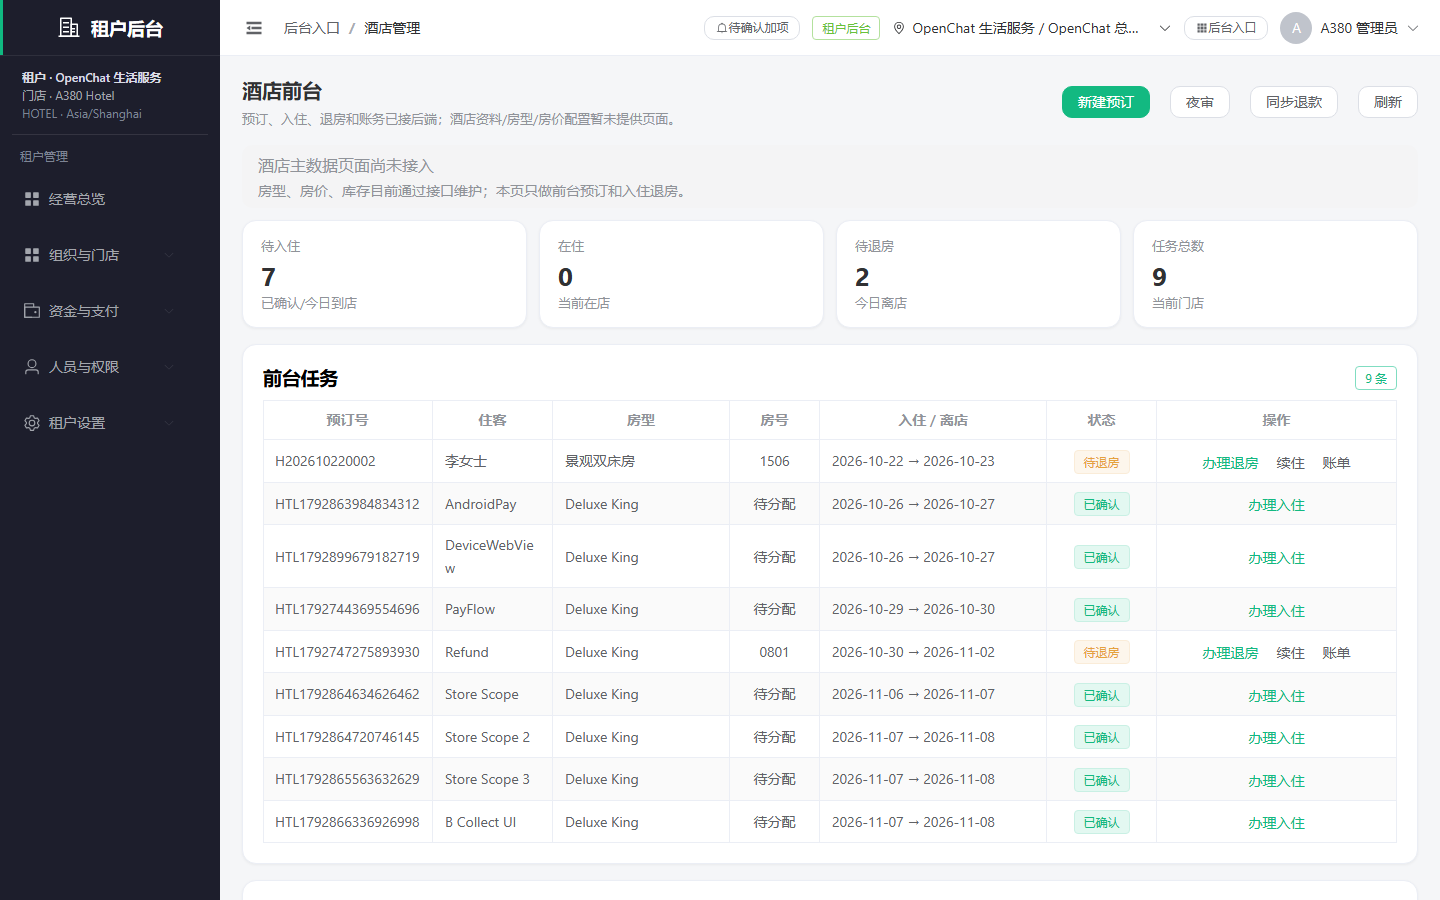
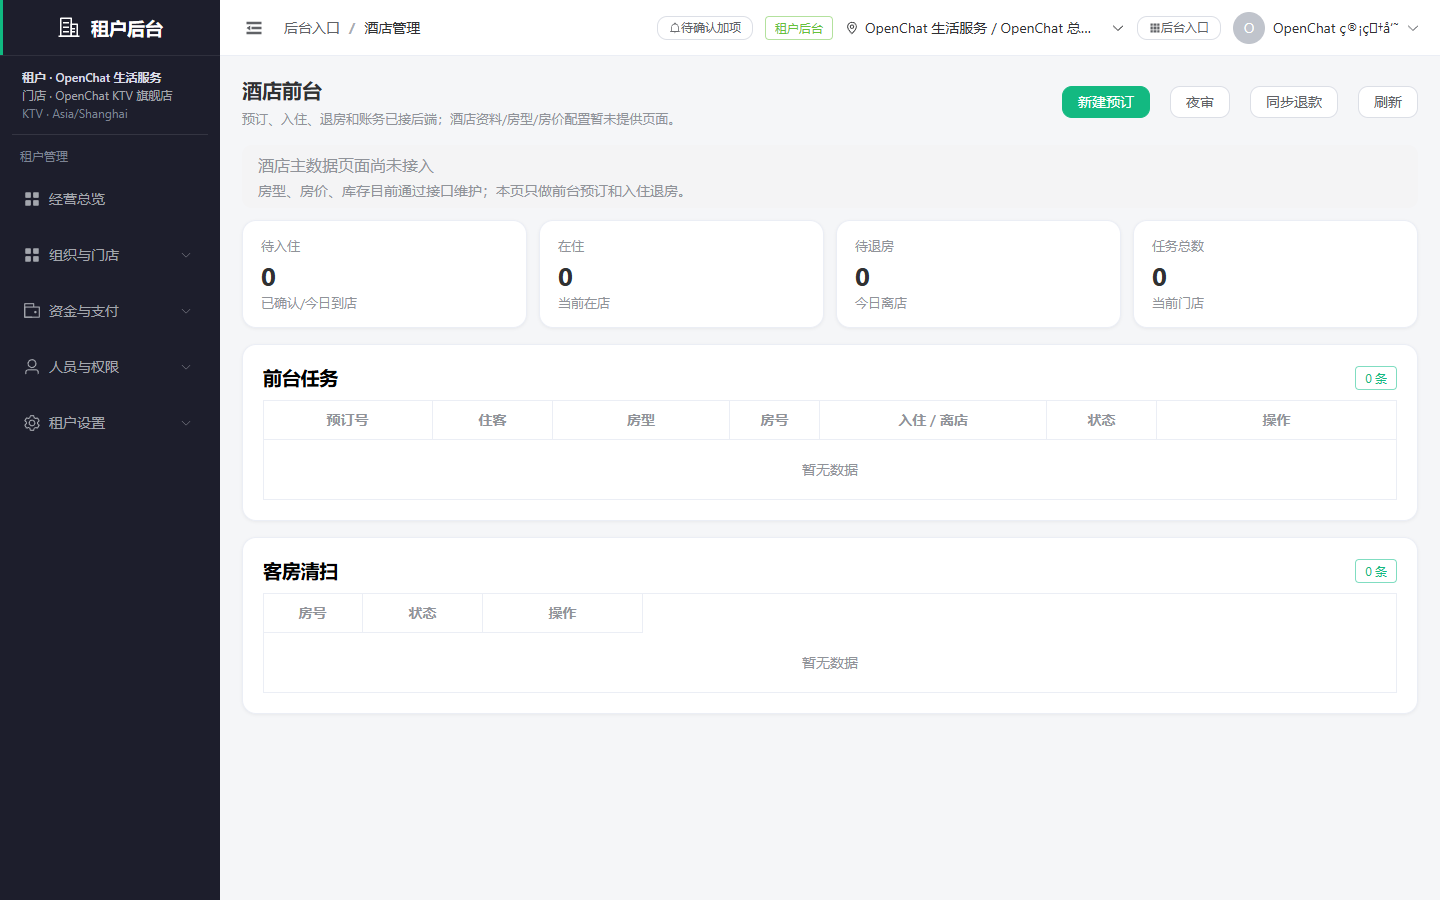
refactor: remove a380 branding from tenant data and docs

diff --git a/platform-services/tenant/platform-tenant-service/src/test/java/io/openware/platform/tenant/api/controller/TenantConfigControllerTest.java b/platform-services/tenant/platform-tenant-service/src/test/java/io/openware/platform/tenant/api/controller/TenantConfigControllerTest.java
@@ -54,12 +54,12 @@ class TenantConfigControllerTest {
     withContext("tenant.tenant.manage");
     when(tenantConfigRepository.upsert(any(TenantConfig.class))).thenAnswer(i -> i.getArgument(0));
 
-    controller.update(new TenantConfigController.UpdateRequest(null, "A380币", 100));
+    controller.update(new TenantConfigController.UpdateRequest(null, "OpenChat币", 100));
 
     AuditClient.AuditRecord record = capturedAudit();
     assertThat(record.action()).isEqualTo("tenant.config.update");
     assertThat(record.tenantId()).isEqualTo(TENANT_ID);
-    assertThat(record.detailJson()).contains("\"brandName\":\"A380币\"").contains("\"ratio\":100");
+    assertThat(record.detailJson()).contains("\"brandName\":\"OpenChat币\"").contains("\"ratio\":100");
     assertThat(record.result()).isNotEqualTo(AuditClient.AuditRecord.RESULT_FAILURE);
   }
 
@@ -68,7 +68,7 @@ class TenantConfigControllerTest {
   void updateWithoutPermissionRecordsFailureAudit() {
     withContext();
 
-    assertThatThrownBy(() -> controller.update(new TenantConfigController.UpdateRequest(null, "A380币", 100)))
+    assertThatThrownBy(() -> controller.update(new TenantConfigController.UpdateRequest(null, "OpenChat币", 100)))
         .isInstanceOf(ApiException.class)
         .satisfies(ex -> assertThat(((ApiException) ex).getCode()).isEqualTo("PERMISSION_DENIED"));
 
@@ -85,7 +85,7 @@ class TenantConfigControllerTest {
     withContext("tenant.tenant.manage");
 
     assertThatThrownBy(() -> controller.update(
-        new TenantConfigController.UpdateRequest(200L, "A380币", 100)))
+        new TenantConfigController.UpdateRequest(200L, "OpenChat币", 100)))
         .isInstanceOf(ApiException.class)
         .satisfies(ex -> assertThat(((ApiException) ex).getCode()).isEqualTo("TENANT_SCOPE_DENIED"));
 
@@ -104,7 +104,7 @@ class TenantConfigControllerTest {
     when(tenantConfigRepository.upsert(any(TenantConfig.class)))
         .thenThrow(new IllegalStateException("数据库连接不可用"));
 
-    assertThatThrownBy(() -> controller.update(new TenantConfigController.UpdateRequest(null, "A380币", 100)))
+    assertThatThrownBy(() -> controller.update(new TenantConfigController.UpdateRequest(null, "OpenChat币", 100)))
         .isInstanceOf(IllegalStateException.class);
 
     AuditClient.AuditRecord record = capturedAudit();

diff --git a/common-services/payment/common-payment-service/src/main/java/io/openware/common/payment/application/CashierApplicationService.java b/common-services/payment/common-payment-service/src/main/java/io/openware/common/payment/application/CashierApplicationService.java
@@ -197,7 +197,7 @@ public class CashierApplicationService {
      * 结构见 {@link DailyClosingSummary}（金额一律最小货币单位整数，禁止跨币种求和）。
      *
      * <p><b>储值币/积分收款（本改动新增，独立分项、只对新增数据生效、不回填历史）</b>：
-     * A380 币（储值 WALLET）与积分（POINT）是组合支付里的**支付工具**（只有现金与价格才带币种），
+     * OpenChat 币（储值 WALLET）与积分（POINT）是组合支付里的**支付工具**（只有现金与价格才带币种），
      * 其抵扣不落 {@code pay_intent}，只在 {@code pay_collect.response_json} 的分腿里；日结把它们
      * **抵扣的账单金额**作为 {@code providers[]} 的独立分项（provider = {@code WALLET}/{@code POINT}）
      * 按币种并列展示，**不并入** {@code collectedAmount}；代币/积分**数量**不在本服务落库，不输出。
@@ -363,7 +363,7 @@ public class CashierApplicationService {
     }
 
     /**
-     * 储值币（WALLET，A380 币）/积分（POINT）收款汇总：作为**独立分项**，只对新增数据生效、不回填历史。
+     * 储值币（WALLET，OpenChat 币）/积分（POINT）收款汇总：作为**独立分项**，只对新增数据生效、不回填历史。
      *
      * <p><b>数据源与口径</b>：这类抵扣不落 {@code pay_intent}（{@link CollectApplicationService#recordCash}
      * 只对现金类分腿写 pay_intent/pay_transaction），实际落在 {@code pay_collect.response_json} 的分腿记录里，

diff --git a/platform-services/tenant/platform-tenant-service/src/main/java/io/openware/platform/tenant/api/controller/TenantConfigController.java b/platform-services/tenant/platform-tenant-service/src/main/java/io/openware/platform/tenant/api/controller/TenantConfigController.java
@@ -10,7 +10,7 @@ import org.springframework.web.bind.annotation.*;
  *
  * <p><b>ratio 语义（冻结，见 16_CURRENCY_CONVENTIONS §9）</b>：{@code ratio = N} 表示
  * <b>1 个主单位（1 元 / 1 美元，随租户币种，默认 USD）= N 代币</b>。
- * 该比例<b>仅用于展示与文案</b>（例如界面提示「充 100 元得 10,000 A380币」），
+ * 该比例<b>仅用于展示与文案</b>（例如界面提示「充 100 元得 10,000 OpenChat币」），
  * <b>硬约束：禁止参与任何入账 / 扣减 / 对账 / 退款 / 日结计算</b>——钱包账本、支付、退款、班次日结
  * 一律只用<b>最小货币单位</b>（CNY 分 / USD cent）的整数金额，不按 ratio 折算；跨币种不做折算（§1）。
  * 本接口只做键值读写，不引入任何换算逻辑。
@@ -34,7 +34,7 @@ public class TenantConfigController {
      * 当前租户的钱包代币展示名与比例（租户来自上下文）。
      *
      * <p>{@code ratio} 是展示口径：1 个主单位（随租户币种）= ratio 个代币；调用方<b>不得</b>用它做金额换算。
-     * 缺行/空值/非法值一律回退 {@code A380币 / 100}（与内部端点同源，读路径不抛错）。
+     * 缺行/空值/非法值一律回退 {@code OpenChat币 / 100}（与内部端点同源，读路径不抛错）。
      */
     @GetMapping
     public WalletTokenConfig get(@RequestParam(required = false) Long tenantId) {

diff --git a/platform-services/tenant/platform-tenant-service/src/main/java/io/openware/platform/tenant/application/WalletTokenConfigApplicationService.java b/platform-services/tenant/platform-tenant-service/src/main/java/io/openware/platform/tenant/application/WalletTokenConfigApplicationService.java
@@ -19,7 +19,7 @@ import lombok.extern.slf4j.Slf4j;
  *
  * <p>存储位置：{@code tnt_tenant_config} 的 {@code (tenant_id, store_id=0)} 下的键
  * {@code wallet_brand_name} / {@code wallet_ratio}（见 {@code docs/80-development/standards/24_CURRENCY_CONVENTIONS.md} §9）。
- * 缺省为 {@code A380币} / {@code 100}；无行、空值、非数字、非正数一律按缺省处理，<b>读路径绝不抛异常</b>——
+ * 缺省为 {@code OpenChat币} / {@code 100}；无行、空值、非数字、非正数一律按缺省处理，<b>读路径绝不抛异常</b>——
  * 租户配置读取失败不能影响 C 端余额/流水展示，也不能影响客户端渲染。
  *
  * <p><b>ratio 语义（冻结）</b>：{@code ratio = N} 表示 <b>1 个主单位（1 元 / 1 美元，随租户币种，默认 USD）
@@ -130,7 +130,7 @@ public class WalletTokenConfigApplicationService {
      * 解析目标租户的代币展示配置。
      *
      * <p>tenantId 为空/非正、配置缺行、值为空或非法（非数字、&le;0）一律回退
-     * {@code A380币 / 100}，绝不抛异常。
+     * {@code OpenChat币 / 100}，绝不抛异常。
      */
     public TenantWalletTokenConfig resolve(Long tenantId) {
         if (tenantId == null || tenantId <= 0) {

diff --git a/platform-services/customer/platform-customer-service/src/main/java/io/openware/platform/customer/infra/client/TenantWalletTokenClient.java b/platform-services/customer/platform-customer-service/src/main/java/io/openware/platform/customer/infra/client/TenantWalletTokenClient.java
@@ -18,7 +18,7 @@ import org.springframework.web.client.RestClient;
  *
  * <p><b>失败一律回退缺省并只打 WARN</b>：租户上下文缺失、网络/超时、401（source 不在
  * {@code internal.service-auth.expected-source} 白名单）、响应为空、品牌/比例非法——都退化成
- * {@code A380币 / 100}。C 端余额与流水展示不能因为租户配置读取失败而失败，也绝不把代币数量当金额。
+ * {@code OpenChat币 / 100}。C 端余额与流水展示不能因为租户配置读取失败而失败，也绝不把代币数量当金额。
  *
  * <p>本客户端只取「品牌展示名 + 比例」两个展示用值：<b>不得</b>用于入账 / 扣减 / 对账 / 退款 / 日结。
  */
@@ -101,7 +101,7 @@ public class TenantWalletTokenClient {
     }
 
     /**
-     * 归一化后的代币展示配置：品牌名保证非空白、ratio 保证为正（缺省 {@code A380币 / 100}）。
+     * 归一化后的代币展示配置：品牌名保证非空白、ratio 保证为正（缺省 {@code OpenChat币 / 100}）。
      * <b>只用于展示代币数量</b>，禁止参与任何金额计算。
      */
     public record WalletTokenConfig(String brandName, long ratio) {

diff --git a/platform-services/customer/platform-customer-service/src/test/java/io/openware/platform/customer/application/WalletTokenResponseContractTest.java b/platform-services/customer/platform-customer-service/src/test/java/io/openware/platform/customer/application/WalletTokenResponseContractTest.java
@@ -50,7 +50,7 @@ class WalletTokenResponseContractTest {
   @Test
   void walletAccountJsonCarriesTokenQuantityAndKeepsMoneyFields() throws Exception {
     TenantContextHolder.set(new TenantContext(TENANT_ID, null, null, 1L, 1));
-    when(client.resolve(TENANT_ID)).thenReturn(new WalletTokenConfig("A380币", 100L));
+    when(client.resolve(TENANT_ID)).thenReturn(new WalletTokenConfig("OpenChat币", 100L));
     WalletAccountView account = displayService.decorate(WalletAccountView.from(
         new WalletAccount(1L, null, 7L, null, "USD", 100L, 0L, null, null, true,
             WalletAccount.STATUS_ACTIVE, 0)));
@@ -60,7 +60,7 @@ class WalletTokenResponseContractTest {
 
     assertTrue(node.path("tokenAmount").isTextual(), "tokenAmount 必须是字符串数量");
     assertEquals("100", node.path("tokenAmount").asText());
-    assertEquals("A380币", node.path("tokenBrandName").asText());
+    assertEquals("OpenChat币", node.path("tokenBrandName").asText());
     // 原货币字段不变：仍是「这笔钱」的最小货币单位与币种（对账/入账口径）
     assertEquals(100L, node.path("availableAmount").asLong());
     assertEquals(0L, node.path("frozenAmount").asLong());

diff --git a/platform-services/tenant/platform-tenant-service/src/main/java/io/openware/platform/tenant/api/controller/InternalTenantConfigController.java b/platform-services/tenant/platform-tenant-service/src/main/java/io/openware/platform/tenant/api/controller/InternalTenantConfigController.java
@@ -19,7 +19,7 @@ import org.springframework.web.bind.annotation.RestController;
  * 客户端无法通过网关访问 `/internal/**`。调用方 source 必须列在
  * {@code internal.service-auth.expected-source} 白名单内（缺省含 platform-customer-service）。
  *
- * <p>读路径一律缺省（币种 USD、代币 {@code A380币 / 100}）、绝不抛异常：签发上下文不能因为币种查询失败
+ * <p>读路径一律缺省（币种 USD、代币 {@code OpenChat币 / 100}）、绝不抛异常：签发上下文不能因为币种查询失败
  * 而失败，C 端余额/流水展示也不能因为租户代币配置读取失败而失败。
  */
 @RestController
@@ -43,7 +43,7 @@ public class InternalTenantConfigController {
     }
 
     /**
-     * 目标租户的钱包代币展示配置（品牌展示名 + ratio）；无配置/非法值回退 {@code A380币 / 100}。
+     * 目标租户的钱包代币展示配置（品牌展示名 + ratio）；无配置/非法值回退 {@code OpenChat币 / 100}。
      *
      * <p>调用方按 {@code 代币数量 = 余额最小单位 ÷ 100 × ratio} 换算<b>展示</b>数量；
      * ratio 禁止参与任何金额计算（§9）。

diff --git a/platform-services/customer/platform-customer-service/src/main/java/io/openware/platform/customer/application/WalletApplicationService.java b/platform-services/customer/platform-customer-service/src/main/java/io/openware/platform/customer/application/WalletApplicationService.java
@@ -20,7 +20,7 @@ import java.util.List;
 import java.util.Map;
 
 /**
- * A380币储值账本应用服务（账本只追加，扣减前校验余额）。
+ * OpenChat币储值账本应用服务（账本只追加，扣减前校验余额）。
  * 金额单位为最小货币单位整数。
  *
  * <p><b>账户懒初始化（2026-09-19）</b>：储值账户<b>只在首次充值</b>（{@link #recharge}）时创建。
@@ -121,7 +121,7 @@ public class WalletApplicationService {
     }
 
     /**
-     * 储值消费（组合收款 A380币抵扣，账本 CONSUME，幂等）。
+     * 储值消费（组合收款 OpenChat币抵扣，账本 CONSUME，幂等）。
      * 金额最小货币单位整数；同主体同币种；扣减前校验余额，不足拒绝（LEDGER_INSUFFICIENT）。
      * 没有账户的会员按余额 0 处理：同样回 LEDGER_INSUFFICIENT（**不是** 404，也不为失败路径建账户）。
      */

diff --git a/platform-services/customer/platform-customer-service/src/main/java/io/openware/platform/customer/infra/persistence/po/CstWalletAccountPo.java b/platform-services/customer/platform-customer-service/src/main/java/io/openware/platform/customer/infra/persistence/po/CstWalletAccountPo.java
@@ -9,7 +9,7 @@ import lombok.Setter;
 import java.time.LocalDateTime;
 
 /**
- * A380币储值账本（cst_wallet_account），同主体同币种唯一。
+ * OpenChat币储值账本（cst_wallet_account），同主体同币种唯一。
  * 金额使用最小货币单位整数（bigint）。
  */
 @Getter
@@ -31,7 +31,7 @@ public class CstWalletAccountPo {
      */
     @TableField(exist = false)
     private String tokenAmount;
-    /** 非持久化：代币品牌展示名（租户配置 wallet_brand_name，缺省 A380币）；是展示文案，不是币种。 */
+    /** 非持久化：代币品牌展示名（租户配置 wallet_brand_name，缺省 OpenChat币）；是展示文案，不是币种。 */
     @TableField(exist = false)
     private String tokenBrandName;
     /**

diff --git a/platform-services/customer/platform-customer-service/src/main/java/io/openware/platform/customer/infra/persistence/po/CstWalletLedgerPo.java b/platform-services/customer/platform-customer-service/src/main/java/io/openware/platform/customer/infra/persistence/po/CstWalletLedgerPo.java
@@ -9,7 +9,7 @@ import lombok.Setter;
 import java.time.LocalDateTime;
 
 /**
- * A380币储值账本流水（cst_wallet_ledger），只追加，不更新历史流水。
+ * OpenChat币储值账本流水（cst_wallet_ledger），只追加，不更新历史流水。
  */
 @Getter
 @Setter
@@ -33,7 +33,7 @@ public class CstWalletLedgerPo {
      */
     @TableField(exist = false)
     private String tokenAmount;
-    /** 非持久化：代币品牌展示名（租户配置 wallet_brand_name，缺省 A380币）；是展示文案，不是币种。 */
+    /** 非持久化：代币品牌展示名（租户配置 wallet_brand_name，缺省 OpenChat币）；是展示文案，不是币种。 */
     @TableField(exist = false)
     private String tokenBrandName;
     private Long orderId;

diff --git a/platform-services/admin/platform-admin-service/src/main/java/io/openware/platform/admin/application/KtvConfigApplicationService.java b/platform-services/admin/platform-admin-service/src/main/java/io/openware/platform/admin/application/KtvConfigApplicationService.java
@@ -15,7 +15,7 @@ import java.util.List;
 /**
  * KTV 配置 BFF 应用服务：计价方案 / 支付开关 / 服务人员目录，经 {@link KtvConfigDomainClient} 转发。
  *
- * <p><b>储值不在本服务（2026-09-19 合并）</b>：A380币储值（充值/退还/余额/流水）是<b>租户级</b>资产，
+ * <p><b>储值不在本服务（2026-09-19 合并）</b>：OpenChat币储值（充值/退还/余额/流水）是<b>租户级</b>资产，
  * 与门店、KTV 计价配置无关，唯一入口是后台「储值管理」页 —— 它直连 customer 域
  * {@code /admin/wallets/recharge|refund} 与 {@code /business/members/{id}/wallet[/ledger]}。
  * 这里原先的 {@code /admin/ktv/wallet-recharge}（BFF 代理 + 用余额拼出一条假流水）已删除，

diff --git a/platform-services/order/platform-order-service/src/main/java/io/openware/platform/order/api/dto/ReservationView.java b/platform-services/order/platform-order-service/src/main/java/io/openware/platform/order/api/dto/ReservationView.java
@@ -10,7 +10,7 @@ import java.time.LocalDateTime;
  * <p><b>字段集照搬原持久化对象 {@code ReservationPo}（JSON 字段名一个不改）</b>：
  * {@code /business/reservations/**}、{@code /me/reservations}、{@code /api/v1/reservations/**}
  * 的响应体早已是对外契约（见 {@code docs/contracts/openapi/platform-order-service.json}
- * 的 {@code ReservationPo} schema，以及 {@code scripts/verify/verify-a380-ktv-closure.ps1}
+ * 的 {@code ReservationPo} schema，以及 {@code scripts/verify/verify-openchat-ktv-closure.ps1}
  * 按 {@code id}/{@code status}/{@code version}/{@code resourceId} 断言的闭环脚本）。
  *
  * <p>其中三个字段**不是数据库列**（原 PO 上标 {@code @TableField(exist = false)}，
